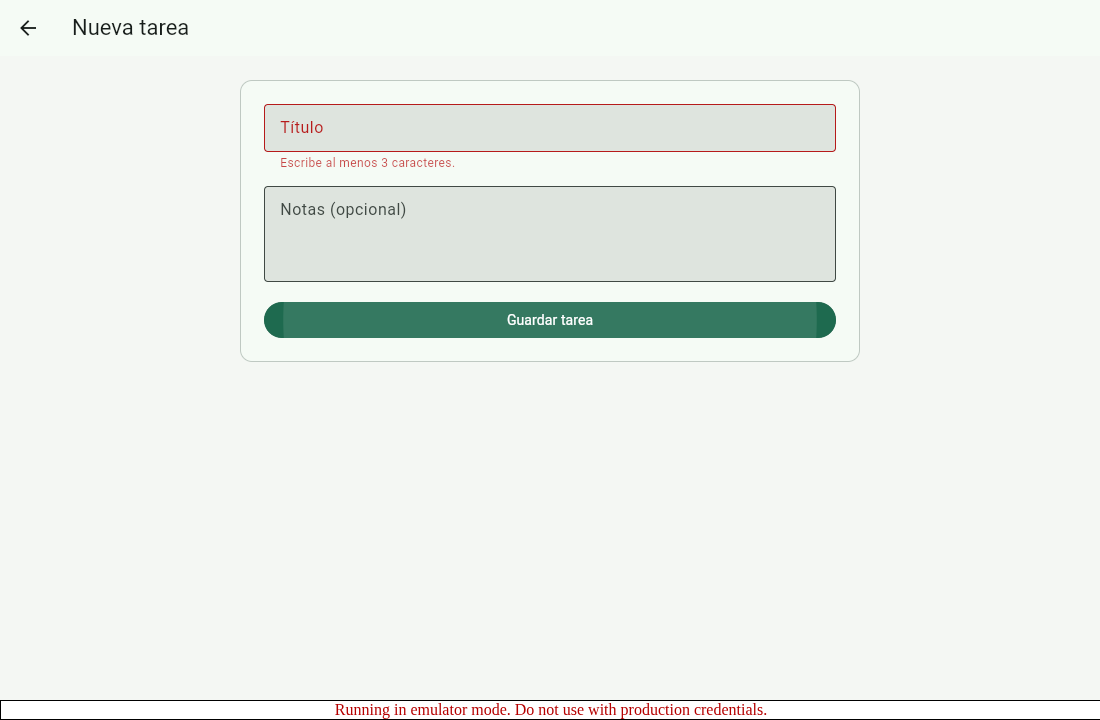
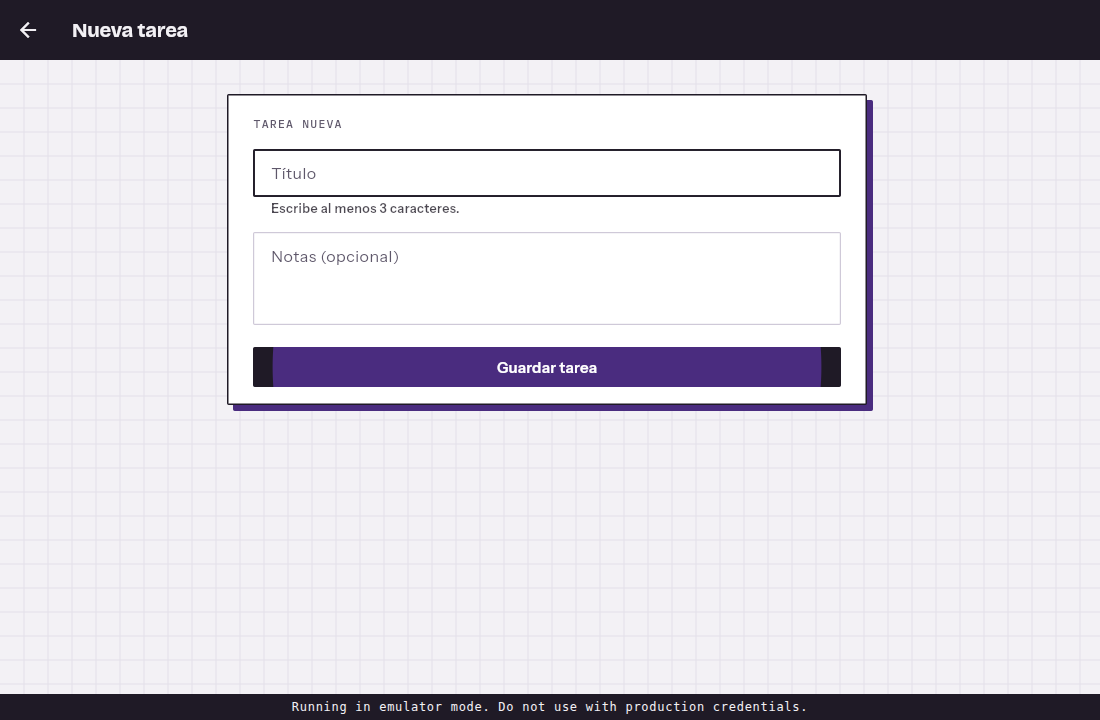
docs: registrar INC-005 e INC-006 y actualizar evidencias con el diseño final
- Capturas de la app y de la consola de emuladores regeneradas en GitHub
  Actions (ejecución 44009914991, commit 35539d7) con el diseño nuevo.
- Salidas de flutter analyze, flutter test, flutter --version y de la
  compilación web en GitHub Actions.
- Registro de incidencias y plantilla 08 (md y csv) con INC-005 e INC-006,
  método de 5 pasos, commits y regresiones.
- README con diseño, integración continua y compilación contra la nube.

Changed region(s): [[0.2164, 0.1222, 0.8036, 0.5806], [0.0, 0.0, 1.0, 0.0917], [0.0, 0.9472, 1.0, 1.0]]

diff --git a/docs/04-registro-incidencias.md b/docs/04-registro-incidencias.md
@@ -6,6 +6,8 @@
 | INC-002 | El control de regreso se identificaba como `Back` en la app en español. | Baja | P3 | Navegación y accesibilidad | La app utilizaba la localización por defecto del framework. | Configuración de `es` y de los delegados de localización en `0bc028f`. | Cerrada. La prueba de widget y CP-06 verifican `Atrás`. |
 | INC-003 | Un evento Atrás sacaba al usuario del editor mientras el guardado seguía pendiente. | Media | P2 | Navegación y escritura asíncrona | El formulario bloqueaba sus controles con `_saving`. La ruta todavía aceptaba eventos de regreso. | La ruta usa `PopScope` durante la escritura y vuelve al recibir confirmación. Commit `0b4a012`. | Cerrada. La regresión pasó con una escritura diferida. |
 | INC-004 | Un título corregido seguía marcado en rojo hasta pulsar Guardar otra vez. | Baja | P3 | Validación de la interfaz | El formulario validaba solamente al enviar. El estado del error seguía visible durante la corrección. | Revalidación al editar un campo con error. Commit `7859963`. | Cerrada. La prueba de widget verifica que se retira el aviso al corregir. |
+| INC-005 | Después del rediseño visual, la prueba de widget «una tarea completada abre el detalle y permite volver» falló en GitHub Actions con `ListTile background color or ink splashes may be invisible`. | Baja | P2 | UI | La hoja blanca de la lista pintaba su fondo con un `DecoratedBox` entre cada `ListTile` y el `Material` del `Scaffold`, que tapaba el hover y el ripple de las filas. | La hoja envuelve su contenido en un `Material` transparente. Commit `5658eb8`. | Cerrada. La misma prueba pasó en la ejecución siguiente de GitHub Actions. |
+| INC-006 | Después del rediseño, las pruebas funcionales fallaron en CP-12A: el mensaje «Todavía no tienes tareas.» no aparecía como elemento propio. | Baja | P2 | UI (accesibilidad) | Flutter Web unía la etiqueta «HOJA EN BLANCO», el mensaje y la ayuda de la hoja vacía en un solo elemento accesible. Un lector de pantalla leía todo junto y el caso no podía ubicar el mensaje. | Las etiquetas decorativas usan `ExcludeSemantics` y los mensajes y sellos tienen un nodo `Semantics(container: true)` propio. Commit `93e73cb`. | Cerrada. Las dos rondas de casos funcionales pasaron en GitHub Actions. |
 
 ## Depuración de INC-003
 
@@ -20,4 +22,24 @@ La regresión se ejecutó antes y después en el entorno de pruebas. La repetici
 - [Análisis inicial](evidencias/pruebas-y-analisis/01-flutter-analyze-inicial.txt) y [verificación de INC-001](evidencias/pruebas-y-analisis/02-contexto-inc-001.txt).
 - [Regresiones antes de las correcciones](evidencias/pruebas-y-analisis/03-regresiones-antes.txt).
 - [Pruebas unitarias y de widget después de corregir](evidencias/pruebas-y-analisis/05-flutter-test-final.txt).
-- [Validación anterior de INC-004](evidencias/capturas-aplicacion/00-inc-004-antes.png) y [validación corregida](evidencias/capturas-aplicacion/05-formulario.png).
+- [Validación anterior de INC-004](evidencias/capturas-aplicacion/00-inc-004-antes.png) y [validación corregida](evidencias/capturas-aplicacion/05-formulario.png). La captura previa conserva el diseño anterior al rediseño visual porque documenta el estado antes de la corrección.
+
+## Depuración de INC-005
+
+1. **Reproducir.** Ejecutar `flutter test` sobre el commit del rediseño (`7b720ed`). En GitHub Actions falló la prueba «una tarea completada abre el detalle y permite volver» ([ejecución 44008946115](https://github.com/khoopper/practica-integracion-pruebas-flutter/actions/runs/44008946115)).
+2. **Leer.** `tester.takeException()` devolvió el `FlutterError` «ListTile background color or ink splashes may be invisible. The ListTile is wrapped in a DecoratedBox that has a background color».
+3. **Formular la hipótesis.** La nueva hoja de la lista (`Hoja` en `lib/ui/cuaderno.dart`) pinta un fondo opaco con `DecoratedBox`; la `ListTile` dibuja sus efectos en el `Material` más cercano, que es el del `Scaffold` y queda debajo de la hoja.
+4. **Comprobar.** El error solo aparece en la lista con datos, que es la única pantalla con `ListTile` dentro de una `Hoja`. Las pruebas de lista vacía y de error de lectura pasaron en la misma ejecución.
+5. **Corregir y proteger.** `Hoja` envuelve su contenido en `Material(type: MaterialType.transparency)`. La prueba de widget existente protege el caso: falla si vuelve a aparecer la excepción.
+
+- [Salida de `flutter test` con la falla](evidencias/pruebas-y-analisis/09-inc-005-flutter-test-antes.txt) y [salida después de la corrección](evidencias/pruebas-y-analisis/10-flutter-test-ci.txt).
+
+## Depuración de INC-006
+
+1. **Reproducir.** Ejecutar las dos rondas de casos funcionales sobre el commit `5658eb8`. En GitHub Actions la ronda 1 se detuvo en CP-12A ([ejecución 44009225289](https://github.com/khoopper/practica-integracion-pruebas-flutter/actions/runs/44009225289)).
+2. **Leer.** Playwright no encontró «Todavía no tienes tareas.». La instantánea de accesibilidad mostraba un solo texto: «HOJA EN BLANCO Todavía no tienes tareas. Pulsa «Nueva tarea» para anotar la primera.».
+3. **Formular la hipótesis.** Antes del rediseño el mensaje estaba solo dentro de su tarjeta. Ahora comparte columna con una etiqueta y una ayuda, y Flutter Web fusiona textos hermanos sin límite semántico en un único nodo.
+4. **Comprobar.** El mismo patrón aparece en el detalle («FICHA DE TAREA» junto al sello «Pendiente») y en el error de lectura. CP-03 pasó porque en `Aviso` la etiqueta «ERROR» ya estaba excluida de la semántica y el mensaje quedaba solo.
+5. **Corregir y proteger.** Las etiquetas decorativas (`Etiqueta`) se excluyen de la semántica y los mensajes (`Mensaje`) y sellos (`Sello`) son contenedores semánticos. Las pruebas funcionales buscan cada mensaje por su texto exacto y fallan si vuelve a fusionarse.
+
+- [Registro de la ronda con la falla](evidencias/pruebas-y-analisis/13-inc-006-pruebas-funcionales-antes.txt) y [registro funcional después de la corrección](evidencias/pruebas-y-analisis/07-pruebas-funcionales.txt).

diff --git a/docs/03-plantilla-pruebas.md b/docs/03-plantilla-pruebas.md
@@ -1,6 +1,6 @@
 # Plantilla de pruebas
 
-La cobertura se verifica en Flutter Web con Authentication y Firestore de Firebase Local Emulator Suite. Las cuentas y tareas son ficticias. Cada ronda inicia un contexto de navegador nuevo. CP-19 cierra y vuelve a abrir la aplicación dentro de la misma sesión del navegador y CP-18 recarga después de salir.
+La cobertura se verifica en Flutter Web con Authentication y Firestore de Firebase Local Emulator Suite. Las cuentas y tareas son ficticias. Cada ronda inicia un contexto de navegador nuevo. CP-19 cierra y vuelve a abrir la aplicación dentro de la misma sesión del navegador y CP-18 recarga después de salir. Las rondas se ejecutan automáticamente en GitHub Actions (Linux, Flutter 3.50.0, Chrome Headless Shell) con el flujo [Integración y pruebas](https://github.com/khoopper/practica-integracion-pruebas-flutter/actions/workflows/integracion-y-pruebas.yml).
 
 Un resultado aprobado requiere que coincida con lo esperado, que no ocurra ninguna excepción no controlada en el navegador y que pueda repetirse. El registro funcional identifica cada ejecución por ronda y por ID. La evidencia visual complementa el resultado de la aplicación y las operaciones en Firestore.
 
@@ -15,7 +15,7 @@ Se verificó en el orden indicado por la práctica. Ninguna incidencia fue Crít
 | 1 | Arranque e inicialización de Firebase | CP-01 | Aprobado |
 | 2 | Autenticación | CP-21, CP-02, CP-03 | Aprobado |
 | 3 | Navegación entre todas las pantallas | CP-05, CP-06 | Aprobado tras corregir INC-002 |
-| 4 | Lectura de datos | CP-08, CP-12A, CP-12B, CP-19 | Aprobado |
+| 4 | Lectura de datos | CP-08, CP-12A, CP-12B, CP-19 | Aprobado; tras el rediseño visual se corrigieron INC-005 (lista) e INC-006 (lista vacía) |
 | 5 | Escritura y actualización de datos | CP-04, CP-07, CP-09, CP-10, CP-11 | Aprobado tras corregir INC-003 e INC-004 |
 | 6 | Notificaciones push en tres estados | CP-14 a CP-17 | No ejecutado: FCM fuera del alcance |
 | 7 | Flujo completo de extremo a extremo | CP-20 | Aprobado |
@@ -46,8 +46,9 @@ Se verificó en el orden indicado por la práctica. Ninguna incidencia fue Crít
 
 ## Resultados
 
-Los **17 casos aplicables** se aprobaron en **dos rondas**, con **34 comprobaciones aprobadas**. Se cubrieron los cuatro flujos críticos y los casos negativos de contraseña, título y permisos. [Registro funcional completo](evidencias/pruebas-y-analisis/07-pruebas-funcionales.txt)
+Los **17 casos aplicables** se aprobaron en **dos rondas**, con **34 comprobaciones aprobadas**. La ejecución vigente es la del 17/11/2026 03:26 UTC sobre el diseño final (commit `35539d7`, [ejecución 44009914991](https://github.com/khoopper/practica-integracion-pruebas-flutter/actions/runs/44009914991)); la primera ejecución del 15/11/2026 obtuvo el mismo resultado con el diseño anterior. Se cubrieron los cuatro flujos críticos y los casos negativos de contraseña, título y permisos. [Registro funcional completo](evidencias/pruebas-y-analisis/07-pruebas-funcionales.txt)
 
 - El análisis inicial mostró 0 errores, 0 advertencias y 4 diagnósticos informativos. El análisis final quedó sin diagnósticos. [Análisis inicial](evidencias/pruebas-y-analisis/01-flutter-analyze-inicial.txt) · [Análisis final](evidencias/pruebas-y-analisis/04-flutter-analyze-final.txt)
-- Pasaron 3 pruebas unitarias y 5 de widget. [Salida de flutter test](evidencias/pruebas-y-analisis/05-flutter-test-final.txt)
-- El arranque se realizó con `flutter run`. El registro contiene la compilación y la dirección servida. [Ejecución](evidencias/pruebas-y-analisis/06-flutter-run.txt)
+- Pasaron 3 pruebas unitarias y 5 de widget. [Salida de flutter test](evidencias/pruebas-y-analisis/05-flutter-test-final.txt) · [Salida en GitHub Actions con el diseño final](evidencias/pruebas-y-analisis/10-flutter-test-ci.txt) · [Análisis en GitHub Actions](evidencias/pruebas-y-analisis/11-flutter-analyze-ci.txt)
+- El arranque se realizó con `flutter run`. El registro contiene la compilación y la dirección servida. [Ejecución](evidencias/pruebas-y-analisis/06-flutter-run.txt) · [Compilación web en GitHub Actions](evidencias/pruebas-y-analisis/15-flutter-build-web-ci.txt)
+- Se registraron y corrigieron 6 incidencias; el detalle está en [04-registro-incidencias.md](04-registro-incidencias.md).

diff --git a/README.md b/README.md
@@ -1,5 +1,7 @@
 # Pendientes de clase
 
+[![Integración y pruebas](https://github.com/khoopper/practica-integracion-pruebas-flutter/actions/workflows/integracion-y-pruebas.yml/badge.svg?branch=semana16-integracion)](https://github.com/khoopper/practica-integracion-pruebas-flutter/actions/workflows/integracion-y-pruebas.yml)
+
 Práctica de integración y pruebas de **Flutter Web**. La aplicación permite crear una cuenta, iniciar sesión y gestionar tareas privadas guardadas en Firebase. La rama de la práctica es `semana16-integracion`.
 
 - **Estudiante:** Brandon Ramirez (entrega individual)
@@ -12,9 +14,16 @@ Práctica de integración y pruebas de **Flutter Web**. La aplicación permite c
 | --- | --- |
 | Casos ejecutados | 17 de 22 planificados (5 fuera del alcance: Storage y FCM), en dos rondas |
 | Flujos críticos aprobados | 100 % (17 ÷ 17) |
-| Incidencias | 4 registradas (INC-001 a INC-004), 4 corregidas con commit `fix: INC-00X` y re-probadas |
+| Incidencias | 6 registradas (INC-001 a INC-006), 6 corregidas con commit `fix: INC-00X` y re-probadas |
 | `flutter test` | 8 pruebas en verde: 3 unitarias y 5 de widget con repositorio falso |
 | `flutter analyze` | 4 diagnósticos informativos al inicio · «No issues found!» al final |
+| Integración continua | `flutter analyze`, `flutter test` y las dos rondas de casos funcionales se ejecutan en cada push en GitHub Actions |
+
+![Lista de tareas con una tarea pendiente y otra completada](docs/evidencias/capturas-aplicacion/09-actualizada.png)
+
+## Diseño
+
+La interfaz se inspira en un cuaderno de cuadrícula: fondo de papel cuadriculado, hojas blancas con borde de tinta y sombra sólida, botones y campos rectangulares, y un único acento violeta de sello para los estados («HECHA», «Completada»). Los errores y avisos usan fichas con etiqueta en lugar de colores de alerta. Las tipografías Bricolage Grotesque, Instrument Sans e IBM Plex Mono van incluidas en `assets/fonts/` con su licencia SIL Open Font License 1.1.
 
 ## Ejecutar la aplicación
 
@@ -34,6 +43,14 @@ flutter run -d chrome --web-hostname=127.0.0.1 --web-port=7357 --no-web-resource
 ```
 
 Crea una cuenta de prueba con un correo de ejemplo y una contraseña de seis o más caracteres. Abre **Nueva tarea**, guarda un título y selecciona la tarea para editarla. La casilla de la lista cambia su estado a completada. La consola de emuladores abre en [127.0.0.1:4000](http://127.0.0.1:4000).
+
+## Integración continua
+
+| Flujo | Qué hace | Cuándo |
+| --- | --- | --- |
+| [Integración y pruebas](.github/workflows/integracion-y-pruebas.yml) | `flutter analyze`, `flutter test`, compilación web y dos rondas de casos funcionales con emuladores de Auth y Firestore. Publica salidas y capturas como artefactos. | En cada push a `main` o `semana16-integracion` |
+| [Regresión INC-003](.github/workflows/regresion-inc-003.yml) | Ejecuta la prueba de INC-003 en `2654ecf` (debe fallar) y en la versión corregida (debe pasar). | Manual, para la repetición en clase |
+| [App web contra Firebase en la nube](.github/workflows/web-nube.yml) | Compila la app con la configuración de un proyecto de prueba guardada en secretos del repositorio. | Manual |
 
 ## Ejecutar las pruebas
 
@@ -84,6 +101,8 @@ firebase login
 firebase deploy --project ID_DEL_PROYECTO_DE_PRUEBA --only firestore:rules
 flutter run -d chrome --dart-define-from-file=firebase.local.json
 ```
+
+Si en el equipo no se puede ejecutar Flutter, el flujo [App web contra Firebase en la nube](.github/workflows/web-nube.yml) compila la app con los valores guardados como secretos del repositorio (`FIREBASE_PROJECT_ID`, `FIREBASE_APP_ID`, `FIREBASE_API_KEY`, `FIREBASE_MESSAGING_SENDER_ID` y `FIREBASE_AUTH_DOMAIN`). El artefacto `web-nube` se sirve con `python -m http.server 5000` y se abre en `http://localhost:5000`.
 
 Usa cuentas ficticias. Crea y modifica una tarea, y captura los datos en Firestore de Firebase Console. Guarda esas capturas en `docs/evidencias/firebase/` con nombres que indiquen la operación. Las capturas incluidas en esta entrega proceden de la consola local de Firebase.
 

diff --git a/docs/05-reflexion-final.md b/docs/05-reflexion-final.md
@@ -10,4 +10,6 @@ La regresión verifica que se mantiene el editor mientras espera y que se vuelve
 
 En Firestore verifiqué que editar una tarea mantiene su identificador y su estado de completada.
 
+Al rediseñar la interfaz, la prueba de widget y las rondas funcionales detectaron dos defectos nuevos (INC-005 e INC-006) antes de la entrega.
+
 En la próxima integración incluiría una prueba de demora en cada flujo que combina una escritura con un cambio de pantalla.
